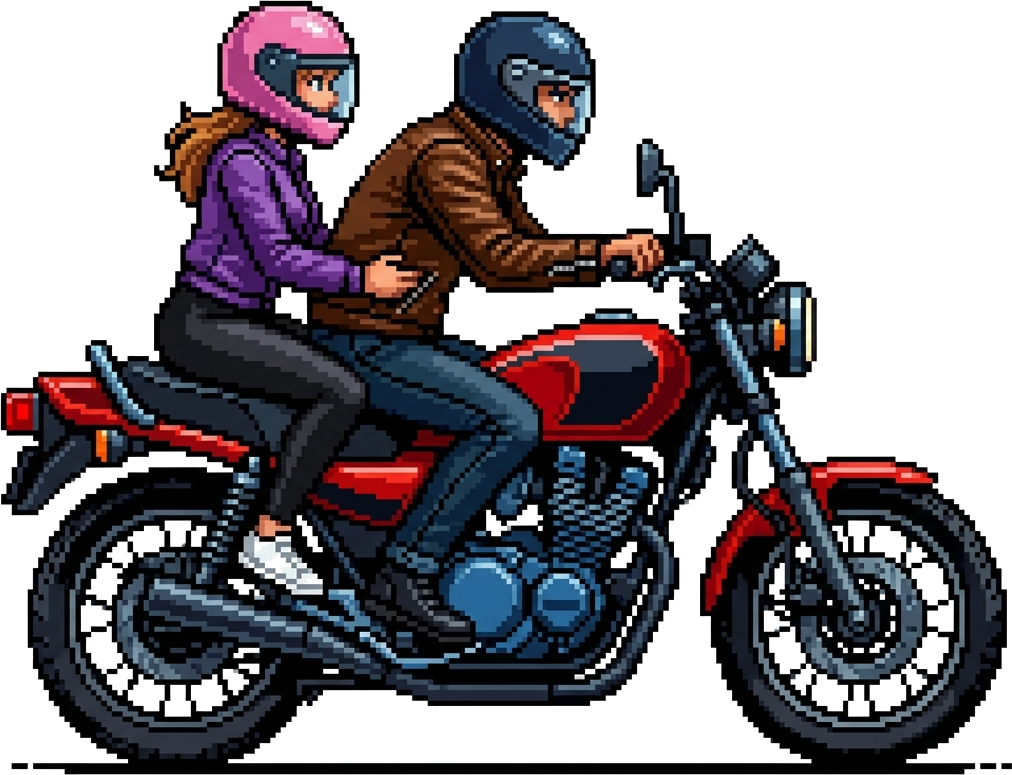
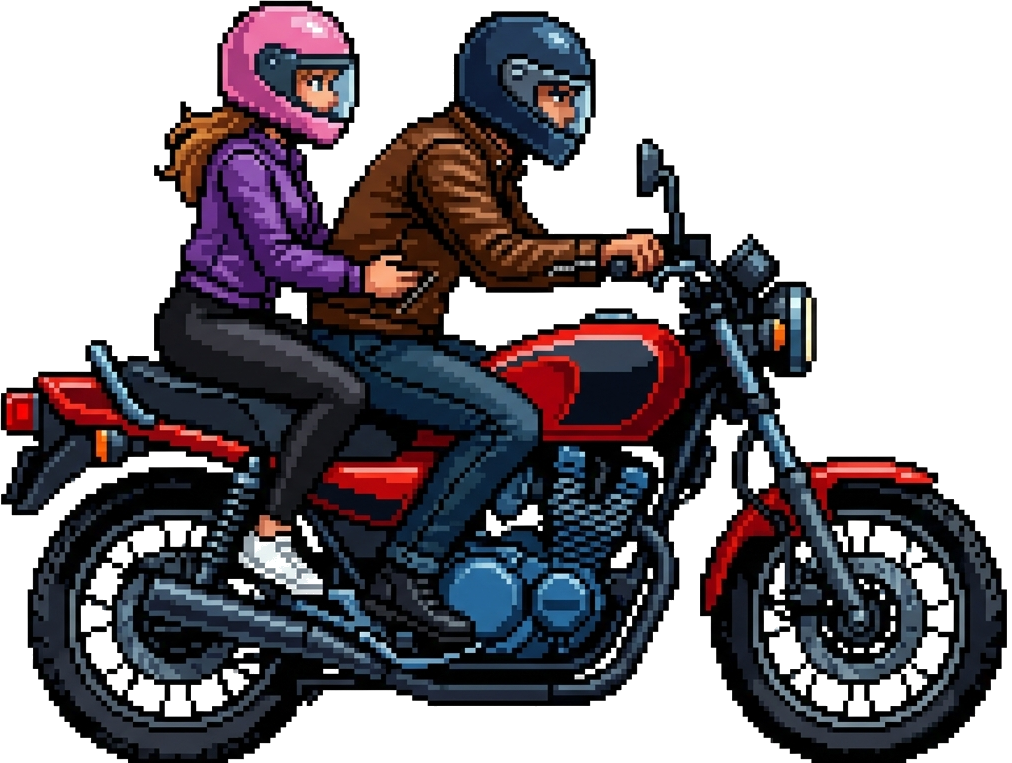
Fix slight visual render bugs

diff --git a/MainWindow.xaml b/MainWindow.xaml
@@ -9,6 +9,8 @@
         Height="{x:Static core:GameConstants.WindowHeight}"
         ResizeMode="NoResize"
         WindowStartupLocation="CenterScreen"
+        UseLayoutRounding="True"
+        SnapsToDevicePixels="True"
         KeyDown="OnWindowKeyDown"
         Closed="OnWindowClosed">
     <Canvas x:Name="GameCanvas" Background="#87CEEB">
